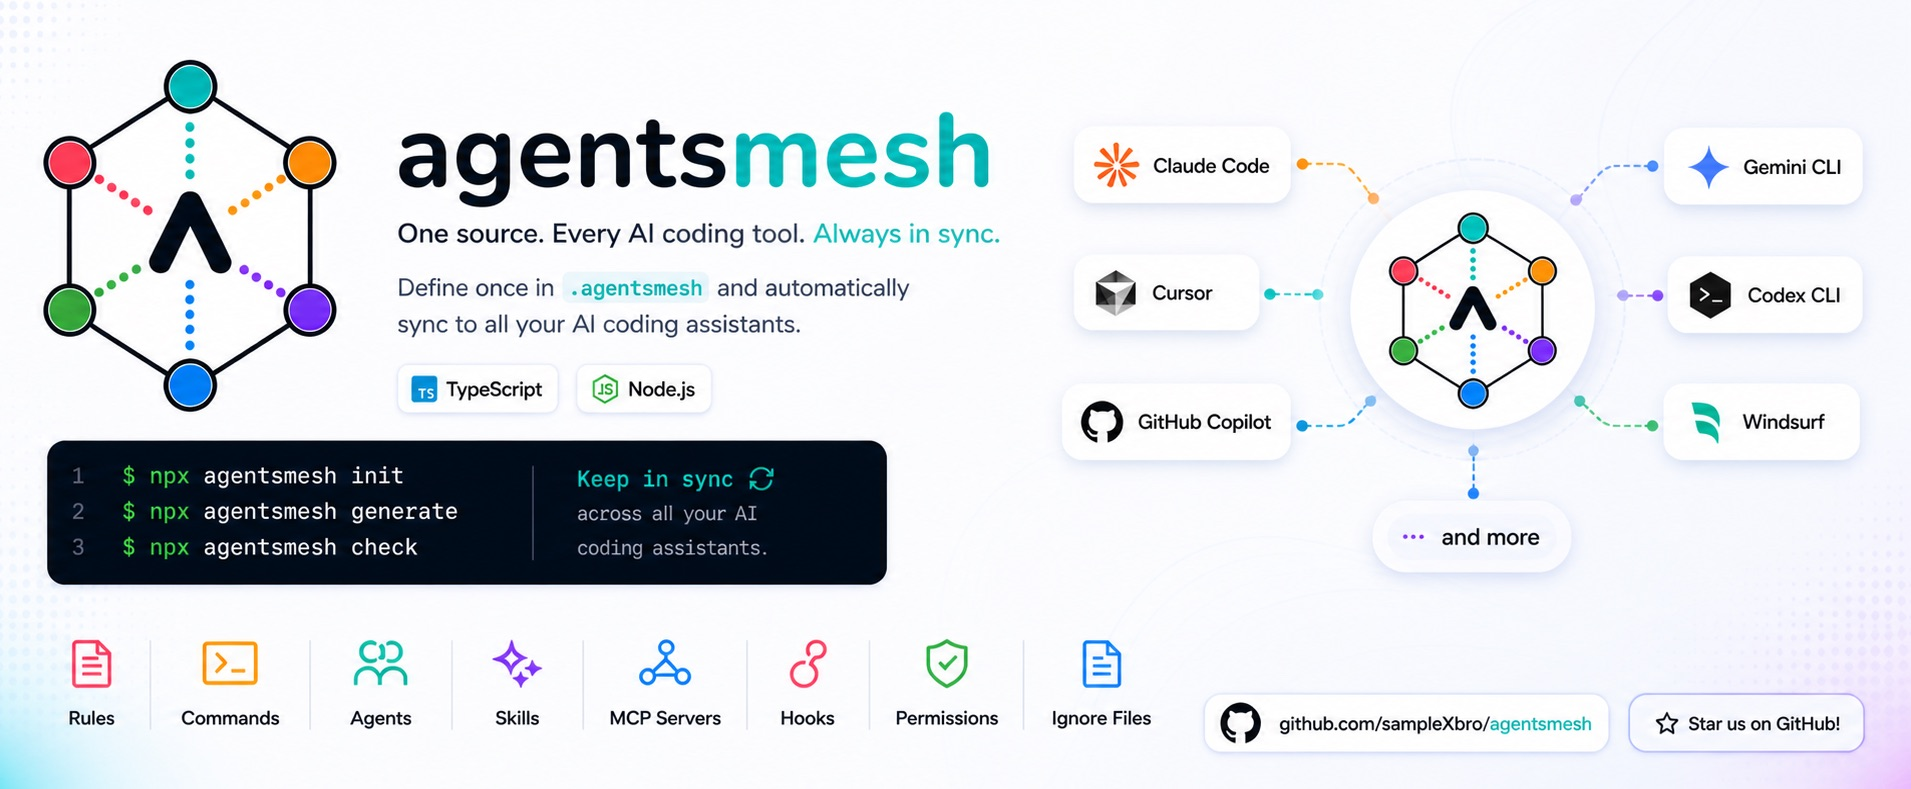
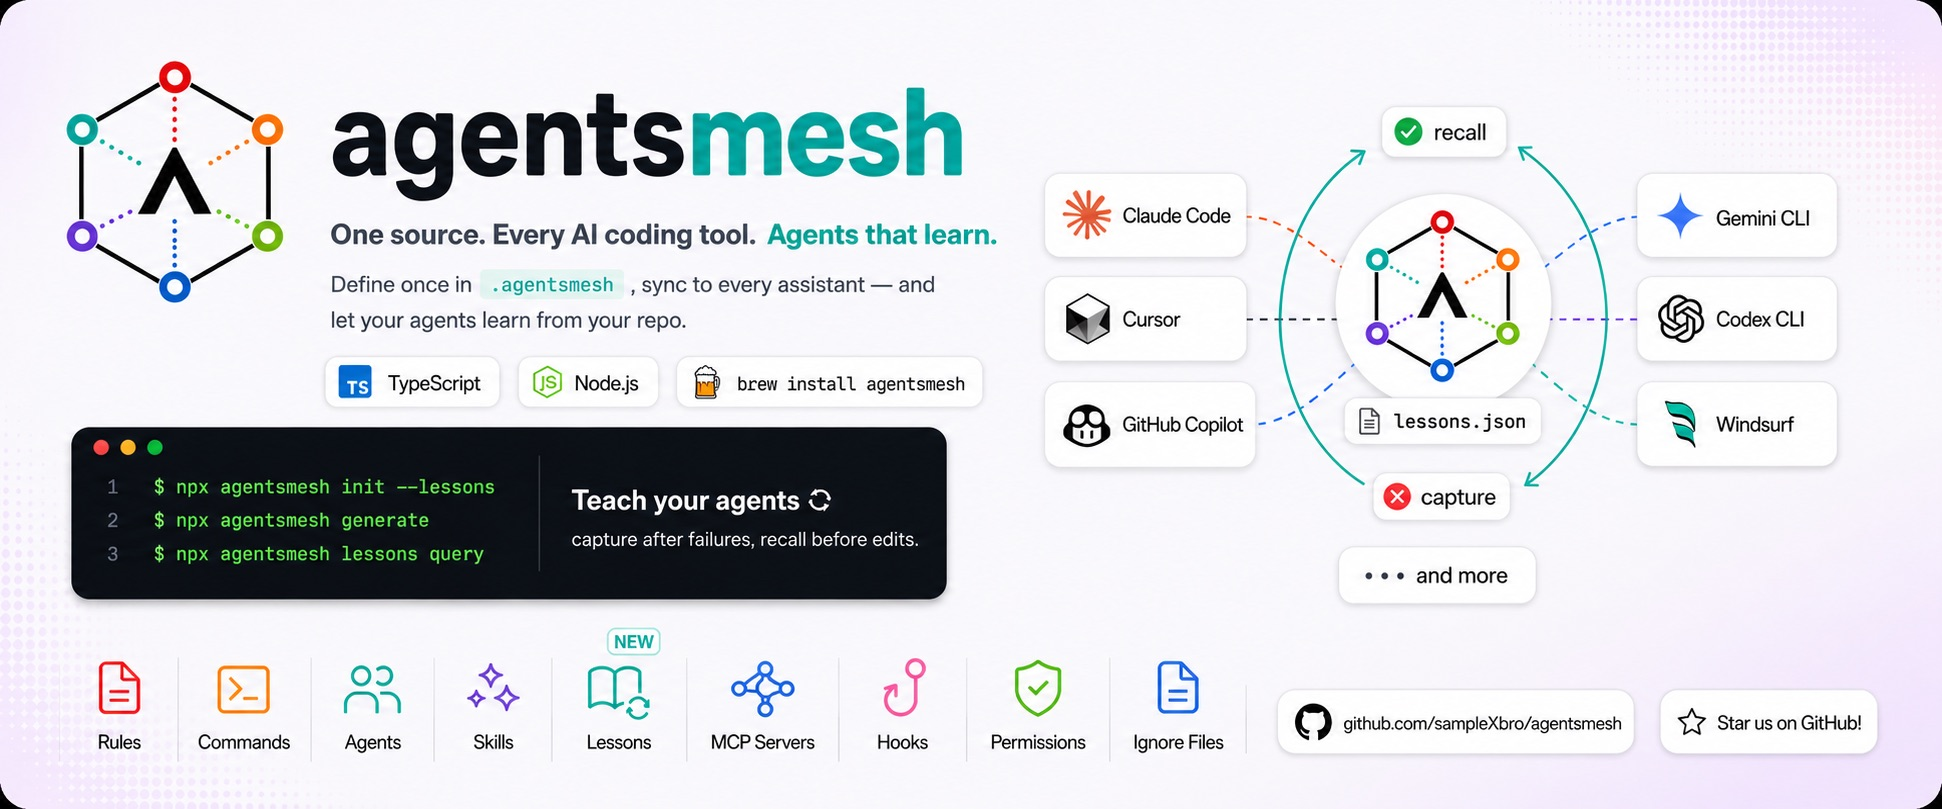
docs(lessons): two-pillar README and homepage rewrite with beginner lessons guide

diff --git a/README.md b/README.md
@@ -16,9 +16,11 @@
 
 </div>
 
-AI coding assistants now ship with their own configuration formats — `CLAUDE.md`, `AGENTS.md`, `.cursor/rules/*.mdc`, `.github/copilot-instructions.md`, `.gemini/settings.json`, `.windsurf/rules/*.md`, `.codex/config.toml`, `.kiro/steering/*.md`, and more. Maintaining the same rules, prompts, MCP servers, hooks, and permissions across all of them by hand causes config drift fast.
+Every AI coding assistant has its own configuration format — `CLAUDE.md`, `AGENTS.md`, `.cursor/rules/*.mdc`, `.github/copilot-instructions.md`, and more. Keeping the same rules, prompts, MCP servers, hooks, and permissions in sync across all of them by hand is tedious, and they drift apart fast.
 
-**AgentsMesh** is an open-source CLI and TypeScript library that fixes this. You write canonical rules, commands, agents, skills, MCP, hooks, ignore files, and permissions once in `.agentsmesh/`, then `agentsmesh generate` projects them out as native config for every supported assistant. `agentsmesh import` brings existing tool configs back into canonical form, and `agentsmesh check` catches drift in CI.
+**AgentsMesh** fixes this. It is an open-source CLI and TypeScript library: write your rules, commands, agents, skills, MCP servers, hooks, ignore files, and permissions once in `.agentsmesh/`, run `agentsmesh generate`, and every tool gets its native config. `agentsmesh import` pulls existing tool configs back into the one source, and `agentsmesh check` catches drift in CI.
+
+**And your agents learn from your repo.** With [lessons](#teach-your-agents-lessons), an agent saves a short rule every time something goes wrong — a failing test, a code review comment, a wrong assumption — and recalls it automatically before it touches the same files again. One shared memory, read and written by every AI tool you use.
 
 > **Full documentation: [samplexbro.github.io/agentsmesh](https://samplexbro.github.io/agentsmesh)**
 
@@ -113,30 +115,54 @@ agentsmesh check      # CI-friendly drift gate against .agentsmesh/.lock
 - **`generate`** — writes `CLAUDE.md`, `AGENTS.md`, `.cursor/`, `.github/copilot-instructions.md`, etc. from canonical sources.
 - **`check`** — exits non-zero if generated files have drifted from `.agentsmesh/.lock`. Drop into CI.
 
-Use `agentsmesh init --lessons` when you want the optional lessons recall +
-capture subsystem. The canonical graph at `.agentsmesh/lessons/lessons.json`
-is the single source of truth. Agents query it through one shell command
-before each edit or state-changing command — pure reads are exempt —
-(`agentsmesh lessons query --file <path> --cmd <command>`)
-and capture failures with one shell command after (`agentsmesh lessons add
-"<rule>" --topic <id> --trigger-file <glob>`). Delivery is two-tier: the
-minimal always-on **trigger** is injected into `.agentsmesh/rules/_root.md`
-so it reaches every target, while the full operating manual is seeded as a
-`lessons` skill (`.agentsmesh/skills/lessons/SKILL.md`) and surfaced on demand
-on skill-capable targets. Upgrading from a previous
-release? Run `agentsmesh lessons import-md` once to migrate the legacy
-`index.yaml` + `topics/*.md` + `journal.md` into the graph; the CLI deletes
-the legacy files after a successful migration.
+Want your agents to learn from this repo too? Add the optional lessons memory:
 
-**Trust model.** `lessons.json` is checked into the repo, so its rules are
-project content — trusted at the same level as the code and `CLAUDE.md`. The
-recall hook injects matching rules into the agent's context, so treat a lesson
-graph from a cloned third-party repo as you would any other code you run: review
-it before relying on its rules. As a guardrail the hook truncates any single
-rule to 2000 characters before injecting it, and capture rejects a rule longer
-than that, so a malformed or oversized rule cannot flood the agent's context.
+```bash
+agentsmesh init --lessons   # adds a shared memory: recall before edits, capture after failures
+```
+
+See [Teach your agents: lessons](#teach-your-agents-lessons) just below for how it works.
 
 If you installed via `npm install -D agentsmesh` (also `pnpm add -D` / `yarn add -D`), prefix each command with `npx`. The CLI ships as both `agentsmesh` and the shorter alias `amsh`.
+
+---
+
+## Teach your agents: lessons
+
+Lessons give your AI coding agents a **memory of past mistakes**. An agent reads that memory *before* it touches anything, and writes to it *after* something goes wrong — so the same mistake doesn't happen twice, in any tool.
+
+The memory is one git-tracked file: `.agentsmesh/lessons/lessons.json`. Every agent — Claude Code, Cursor, Codex CLI, Copilot, and the rest — reads and writes the *same* file through two commands:
+
+- **Recall** — before editing a file or running a state-changing command, the agent asks `agentsmesh lessons query --file <path> --cmd <command>`, gets back the rules that match, and follows them.
+- **Capture** — right after a failure (a red test, a lint error, a review comment, a wrong assumption), the agent saves the rule with `agentsmesh lessons add "<rule>" --topic <id> --trigger-file <glob>`.
+
+A 30-second example:
+
+```bash
+# 1. One-time setup
+agentsmesh init --lessons && agentsmesh generate
+
+# 2. You hit a bug: a Windows path broke because of a backslash.
+#    Capture the lesson so it never bites again:
+agentsmesh lessons add "Normalize CLI display paths to forward slashes" \
+  --topic windows-paths \
+  --new-topic --topic-summary "Cross-platform path handling" \
+  --trigger-file "src/cli/**/*.ts"
+
+# 3. Later, before editing a CLI file, the agent recalls it automatically:
+agentsmesh lessons query --file src/cli/foo.ts
+#   -> Normalize CLI display paths to forward slashes
+```
+
+**Works in every tool.** `init --lessons` wires the loop once. A small always-on rule lands in `.agentsmesh/rules/_root.md` — rules are native in every target, so every agent gets the recall/capture habit — and the full operating manual ships as a `lessons` skill on tools that support skills. Agents without shell access use the matching MCP tools (`lessons_query` / `lessons_add`).
+
+**Team-shared and reviewable.** The graph is a normal git-tracked file: a lesson your agent learns today helps every teammate's agent tomorrow, and every change shows up in code review like any other diff.
+
+**Trust model.** `lessons.json` is checked into the repo, so its rules are project content — trusted at the same level as the code and `CLAUDE.md`. Review a lesson graph from a cloned third-party repo as you would any other code you run. As a guardrail, recall truncates any single rule to 2000 characters before injecting it and capture rejects longer rules, so a malformed rule cannot flood the agent's context.
+
+**Upgrading from the legacy store?** Run `agentsmesh lessons import-md` once to migrate `index.yaml` + `topics/*.md` + `journal.md` into the graph; the CLI deletes the legacy files after a successful migration.
+
+Full walkthrough: [Teach your AI agents with lessons](https://samplexbro.github.io/agentsmesh/guides/lessons/) · every subcommand and flag: [`agentsmesh lessons` CLI reference](https://samplexbro.github.io/agentsmesh/cli/lessons/).
 
 ---
 
@@ -157,7 +183,7 @@ What this gets you:
 - `diff` shows the unified patch every output file would receive, so you can review before any write.
 - `check` reads `.agentsmesh/.lock` and fails the build if the canonical sources and the generated files disagree.
 
-`import --from` accepts any built-in target ID listed in the [Supported Tools matrix](#feature-support-matrix). Plugin targets are valid too.
+`import --from` accepts any built-in target ID listed in the [Supported Tools matrix](#supported-tools--feature-matrix). Plugin targets are valid too.
 
 ---
 
@@ -194,6 +220,7 @@ AgentsMesh generates native config for every major AI coding assistant — plus 
 ## Why developers use AgentsMesh
 
 - **Bidirectional sync** — `import` reads existing tool configs into `.agentsmesh/`; `generate` projects them back out. Round-trips are loss-free, so adopting AgentsMesh in an existing repo never throws away data.
+- **Agents that learn** — the optional [lessons memory](#teach-your-agents-lessons) recalls past-mistake rules before each edit and captures new ones after each failure, shared across every tool and every teammate.
 - **Automatic link rebasing** — references like `.agentsmesh/skills/foo/SKILL.md` are rewritten to target-relative paths in every generated artifact, so cross-file links stay valid from `.claude/`, `.cursor/`, `.github/`, `.codex/`, and the rest.
 - **Managed embedding with round-trip metadata** — when a target has no native slot for a feature (e.g. commands in Codex CLI, agents in Cline), AgentsMesh embeds it with frontmatter that survives the next `import`. No silent data loss; the full feature-by-feature breakdown lives in the [supported tools matrix](https://samplexbro.github.io/agentsmesh/reference/supported-tools/).
 - **Team-safe collaboration** — `agentsmesh check` is a CI drift gate against `.agentsmesh/.lock`, `agentsmesh diff` previews changes, `agentsmesh merge` rebuilds the lock after three-way Git conflicts, and `lock_features` + per-feature `strategy` prevent accidental overrides.
@@ -265,19 +292,16 @@ agentsmesh installs list [--global]
 agentsmesh refresh [<name>[,<name>...]] [--dry-run] [--force] [--json] [--global]
 agentsmesh plugin add|list|remove|info [--version <v>] [--id <id>]
 agentsmesh target scaffold <id> [--name <displayName>] [--force]
-agentsmesh lessons query [--file <p>] [--cmd <c>] [--keyword <k>] [--format plain|md|json] [--top <n>] [--all] [--max-tokens <n>] [--session <id>] [--no-dedup] [--ids]  # ≥1 predicate required (keyword-only warns: misses file/command lessons); relevance-ranked, top 10 + ~400-token budget by default (--all bypasses); --session/AGENTSMESH_SESSION_ID dedups lessons already shown this session (--no-dedup opts out); --ids prefixes each line with the lesson id
-agentsmesh lessons add "<rule>" --topic <id> --trigger-file <glob> [--trigger-cmd <regex>] [--trigger-kw <text>] [--evidence <ref>] [--rationale <text>] [--new-topic --topic-summary "<one line>"]  # ≥1 EFFECTIVE trigger required (a dead-only capture, e.g. a stopword-only keyword, is rejected); a rule must be ≤2000 chars; warns on broad/oversized/keyword-only/near-duplicate triggers
-agentsmesh lessons topics | show <topic> | deprecate <id> [--superseded-by <id>] | journal | validate | import-md [--merge|--force]
-agentsmesh lessons merge <loser-id> <keeper-id>   # fold a duplicate into its canonical twin (supersede + union triggers/topics/evidence)
-agentsmesh lessons untrigger <lesson-id> <trigger-id>  # detach one trigger from a lesson (e.g. drop a dead/low-signal keyword); GCs the node if now unused
-agentsmesh lessons strip-markers [--dry-run]      # remove dead legacy provenance markers from rule prose
-agentsmesh lessons prune [--apply] [--cap <n>]    # curate: trim over-cap lessons (drop least-specific triggers) + remove dead triggers + GC orphan topics (dry-run by default)
-agentsmesh lessons stats [--json]                 # recall + capture telemetry summary: no-match rate, recall-vs-preload break-even, reachability gap, captures/blocked/recall:capture ratio (needs AGENTSMESH_LESSONS_TELEMETRY=1)
+agentsmesh lessons query [--file <p>] [--cmd <c>] [--keyword <k>] [--format plain|md|json] [--top <n>] [--max-tokens <n>] [--all] [--session <id>] [--no-dedup] [--ids]
+agentsmesh lessons add "<rule>" --topic <id> --trigger-file <glob> [--trigger-cmd <regex>] [--trigger-kw <text>] [--evidence <ref>] [--rationale <text>] [--new-topic --topic-summary "<one line>"]
+agentsmesh lessons topics | show <topic|id> | deprecate <id> | merge <loser> <keeper> | untrigger <lesson> <trigger> | strip-markers | journal | validate | stats | prune [--apply] | import-md
 ```
 
 `agentsmesh --help` prints the same surface; `agentsmesh <cmd> --help` is also supported.
 
-Per-project tuning lives in `.agentsmesh/lessons/config.json`, which `agentsmesh init --lessons` writes with every field at its default (`{ "recallLimit": 10, "recallMaxTokens": 400, "autoPrune": false }`) so the tunables are discoverable in one place. Lower `recallLimit`/`recallMaxTokens` to keep per-recall output lean on a large, high-fanout graph. Set `"autoPrune": true` to automatically GC structural cruft after each capture (orphan triggers/topics + non-stranding dead globs — the safe half of `lessons prune`, never an active lesson, fully git-reversible). All fields are optional (a missing one falls back to its default); `--top`/`--max-tokens`/`--all` override the recall caps per call.
+Lessons recall (`query`) is relevance-ranked and lean by default (top 10 results, ~400-token budget); capture (`add`) requires at least one trigger that can actually fire and rejects rules over 2000 characters. Every flag, warning, and maintenance subcommand is documented in the [`agentsmesh lessons` CLI reference](https://samplexbro.github.io/agentsmesh/cli/lessons/).
+
+Per-project recall tuning lives in `.agentsmesh/lessons/config.json`, written by `init --lessons` with every field at its default: `{ "recallLimit": 10, "recallMaxTokens": 400, "autoPrune": false }`. Lower the caps to keep recall lean on a large graph; set `"autoPrune": true` to garbage-collect dead triggers and orphan topics automatically after each capture (safe and fully git-reversible). `--top`/`--max-tokens`/`--all` override the caps per call.
 
 ### Machine-readable output
 
@@ -418,7 +442,7 @@ Every config file ships with a generated JSON Schema, so VS Code, JetBrains, and
 | Variable | Default | Description |
 |---|---|---|
 | `AGENTSMESH_GITHUB_TOKEN` | — | GitHub personal access token for private repo installs and `extends`. |
-| `AGENTSMESH_CACHE` | `~/.agentsmeshcache` | Override the remote-extends / tarball cache directory. |
+| `AGENTSMESH_CACHE` | `~/.agentsmesh/cache` | Override the remote-extends / tarball cache directory (the gitignored `.agentsmeshcache` in the project is a symlink to it). Must be an absolute path. |
 | `AGENTSMESH_MAX_TARBALL_MB` | `500` | Maximum GitHub tarball size in MiB the install command will accept. Allowed range: `1`–`4096`. Increase this when installing from large monorepos. |
 | `AGENTSMESH_STRICT_PLUGINS` | `0` | When set to `1`, a failed plugin descriptor import fails the build instead of warning-and-skip. Useful in CI where a missing plugin target is a regression. |
 | `AGENTSMESH_ALLOW_LOCAL_GIT` | `0` | When set to `1`, enables `git+file://` sources in `extends` and `install`. Disabled by default because on shared hosts a world-writable repo could be planted by another user and combined with elevated-artifact emission for local privilege escalation. |
@@ -527,7 +551,7 @@ See the [full feature matrix docs](https://samplexbro.github.io/agentsmesh/refer
 - **[Canonical Config](https://samplexbro.github.io/agentsmesh/canonical-config/)** — rules, commands, agents, skills, MCP, hooks, ignore, permissions
 - **[CLI Reference](https://samplexbro.github.io/agentsmesh/cli/)** — `init`, `generate`, `import`, `convert`, `install`, `uninstall`, `installs`, `refresh`, `diff`, `lint`, `watch`, `check`, `merge`, `matrix`, `plugin`, `target`
 - **[Configuration](https://samplexbro.github.io/agentsmesh/configuration/agentsmesh-yaml/)** — `agentsmesh.yaml`, local overrides, extends, collaboration, conversions
-- **[Guides](https://samplexbro.github.io/agentsmesh/guides/existing-project/)** — adopting in existing projects · multi-tool teams · sharing config · CI drift detection · community packs · **building plugins**
+- **[Guides](https://samplexbro.github.io/agentsmesh/guides/existing-project/)** — adopting in existing projects · **teaching agents with lessons** · multi-tool teams · sharing config · CI drift detection · community packs · **building plugins**
 - **[Reference](https://samplexbro.github.io/agentsmesh/reference/generation-pipeline/)** — supported tools matrix · generation pipeline · managed embedding
 
 ---
